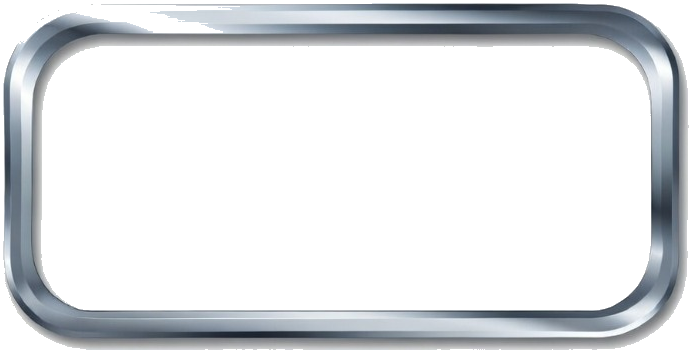
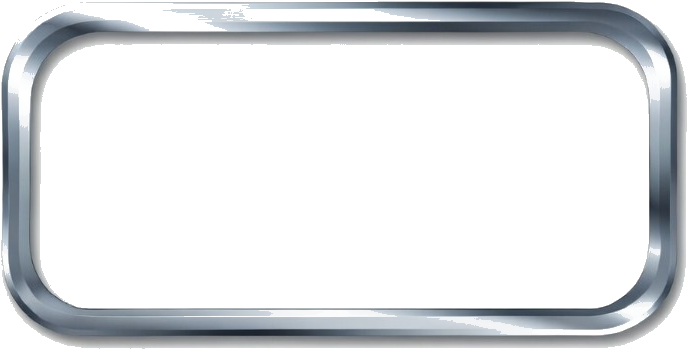
fix: clean frame image from scratch - remove all artifacts and shadow remnants

diff --git a/src/pages/AuthPage.module.css b/src/pages/AuthPage.module.css
@@ -18,9 +18,9 @@
     width: 100%;
     max-width: 480px;
     background: linear-gradient(180deg, rgba(20, 20, 40, 0.95) 0%, rgba(12, 12, 28, 0.98) 100%);
-    border: 40px solid transparent;
-    border-image-slice: 80 76 80 76;
-    border-image-width: 40px;
+    border: 35px solid transparent;
+    border-image-slice: 59 54 57 55;
+    border-image-width: 35px;
     border-image-repeat: stretch;
     /* border-image-source set via inline style for Vite base URL */
     padding: 2rem 1.5rem 1.5rem;
